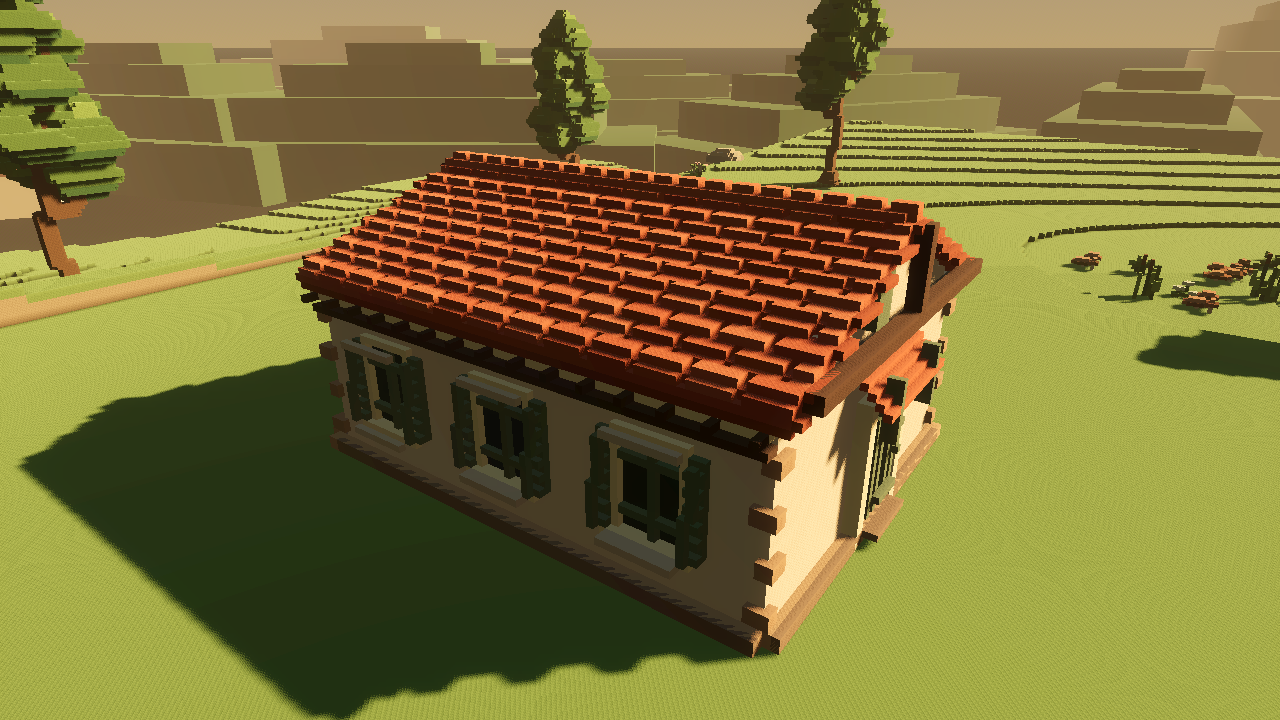
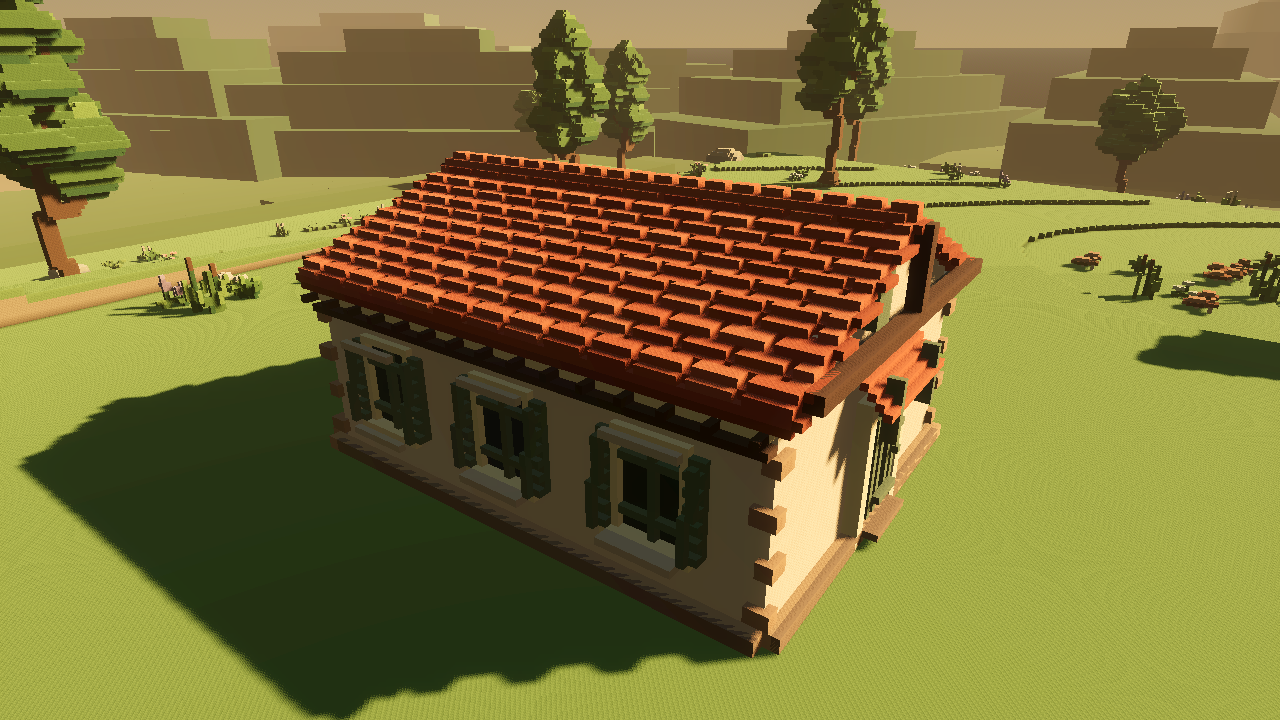
step4 5: gates + evidence — quick gate 21/0 4/0 33/0 12/0, full mobile gate (joined_roof 80/4 pre-existing, verified at base 8991a4c), draw calls 1155->1127, before/after + 8-direction rim captures

diff --git a/notes.md b/notes.md
@@ -533,3 +533,59 @@ count has to land on an acceptable `next_id`. 301 -> next_id 302 is on that list
 **TEST EVIDENCE:** `m1_landscape_test` **128 checks / 0 failures**, `foliage_asset_test`
 **57 checks / 0 failures**. Draw calls unchanged by the planting (the new instances join
 the existing MultiMesh batches): 1127 in the hamlet review framing.
+
+## Bob — step 4 unit 5 (2026-09-15): gates, draw calls, captures, push
+
+**Branch `task/visual-overhaul-1`. This entry's commit is the pushed tip (a commit
+cannot cite its own sha); `git log --oneline -6` + `git ls-remote` confirm.**
+
+**QUICK GATE (the brief's non-negotiable, `bash tools/run_render_gate.sh --quick`):**
+```
+m1_terrain_navigation_test      exit=0  checks=21 failures=0
+scene_boot_gate_test            exit=0  checks=4  failures=0
+cottage_detail_render_test      exit=0  checks=33 failures=0
+m2_hamlet_composition_render_test exit=0 checks=12 failures=0
+```
+= exactly the required 21/0, 4/0, 33/0, 12/0. **FULL GATE (default mode, mobile
+renderer, all 5 suites) also run:** nav 21/0, boot 4/0, cottage 33/0, facade 54/0,
+hamlet 12/0, `joined_roof_course_render_test` **80/4** — the four FAILs are all
+`"unchanged roof remains pixel-stable"`, the known pre-existing sub-quantisation float
+drift. **Re-measured at the base commit 8991a4c in this run: also 80 checks / 4
+failures, same labels** — i.e. not caused by anything here.
+Terrain/contract tests: `m1_riverbank_visual_test` 204/0, `terrain_resolution_test`
+46/0, `m1_scaled_backend_test` 29/0, `m1_landscape_test` 128/0, `foliage_asset_test`
+57/0.
+
+**DRAW CALLS (measured with `tools/bob_drawcall_probe.gd`, same scene + framing,
+base 8991a4c vs this tip):**
+```
+                      base 8991a4c      tip
+draw_calls            1155              1127     (no increase; -28, culling noise)
+primitives            3,047,926         3,142,238  (+3.1%)
+objects_in_frame      1238              1210
+plant_instances       1031              1189     (+158, same 67 MultiMesh batches)
+records               262               301
+```
+The backdrop adds exactly ONE merged surface (the outer valley floor, colour index 4),
+so by construction it is +1 draw call; the frame total measured *lower*, i.e. there is
+no draw-call regression from this work. Mobile renderer, no volumetrics/SDFGI/SSR;
+vegetation still instanced only; the 30 FPS budget is not measurably affected by a
++3% primitive static mesh with shadow casting off.
+
+**CAPTURES (regenerated by the gate / the rim probe, diffable):**
+```
+reports/screenshots/step4-before/full-hamlet-before.png       pre-fix wide shot
+reports/screenshots/step4-before/01-normal-clean-before.png   pre-fix cottage detail
+reports/screenshots/step4-after/full-hamlet-after.png         post-fix wide shot
+reports/screenshots/step4-after/01-normal-clean-after.png     post-fix cottage detail
+reports/screenshots/m2-hamlet/full-hamlet.png                 (gate capture, = after)
+reports/screenshots/m1-cottage-detail/*.png                   (gate captures, = after)
+reports/screenshots/step4-rim/<dir>-before.png  + -before-void.png
+reports/screenshots/step4-rim/<dir>-after.png   + -after-void.png   8 directions each
+```
+
+**For the next run / for Pali:** (a) the only known-open gate failure is the
+pre-existing `joined_roof_course_render_test` 80/4 float drift (unchanged, not chased);
+(b) `LandscapeState.LIMIT` 320 is now the binding constraint on how full the valley can
+look — approve a raise if a denser scatter is wanted; (c) the APK/export + Drive
+delivery for this branch is still outstanding.
